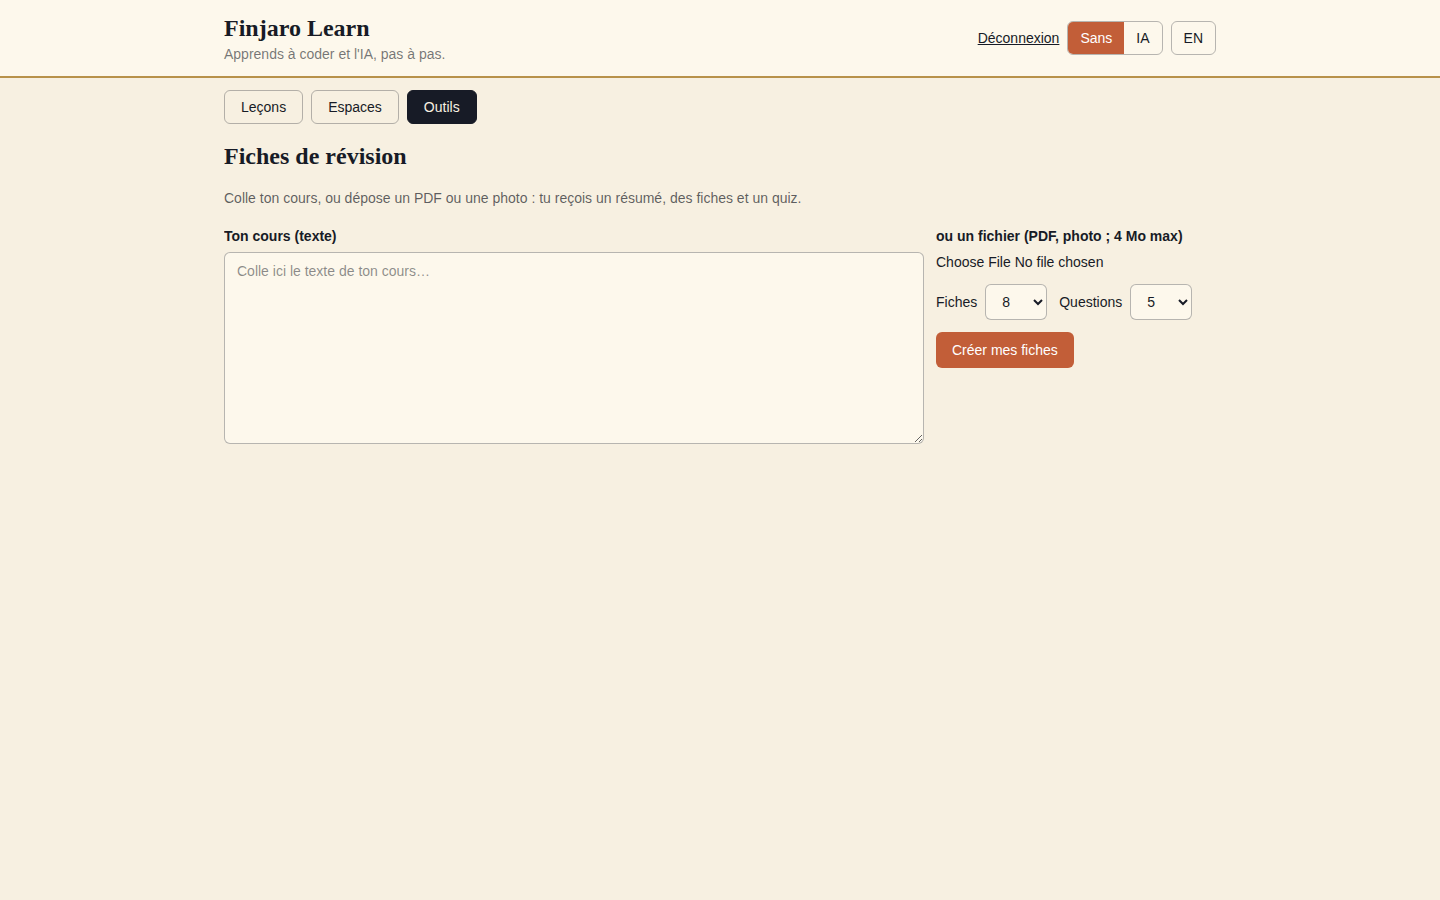
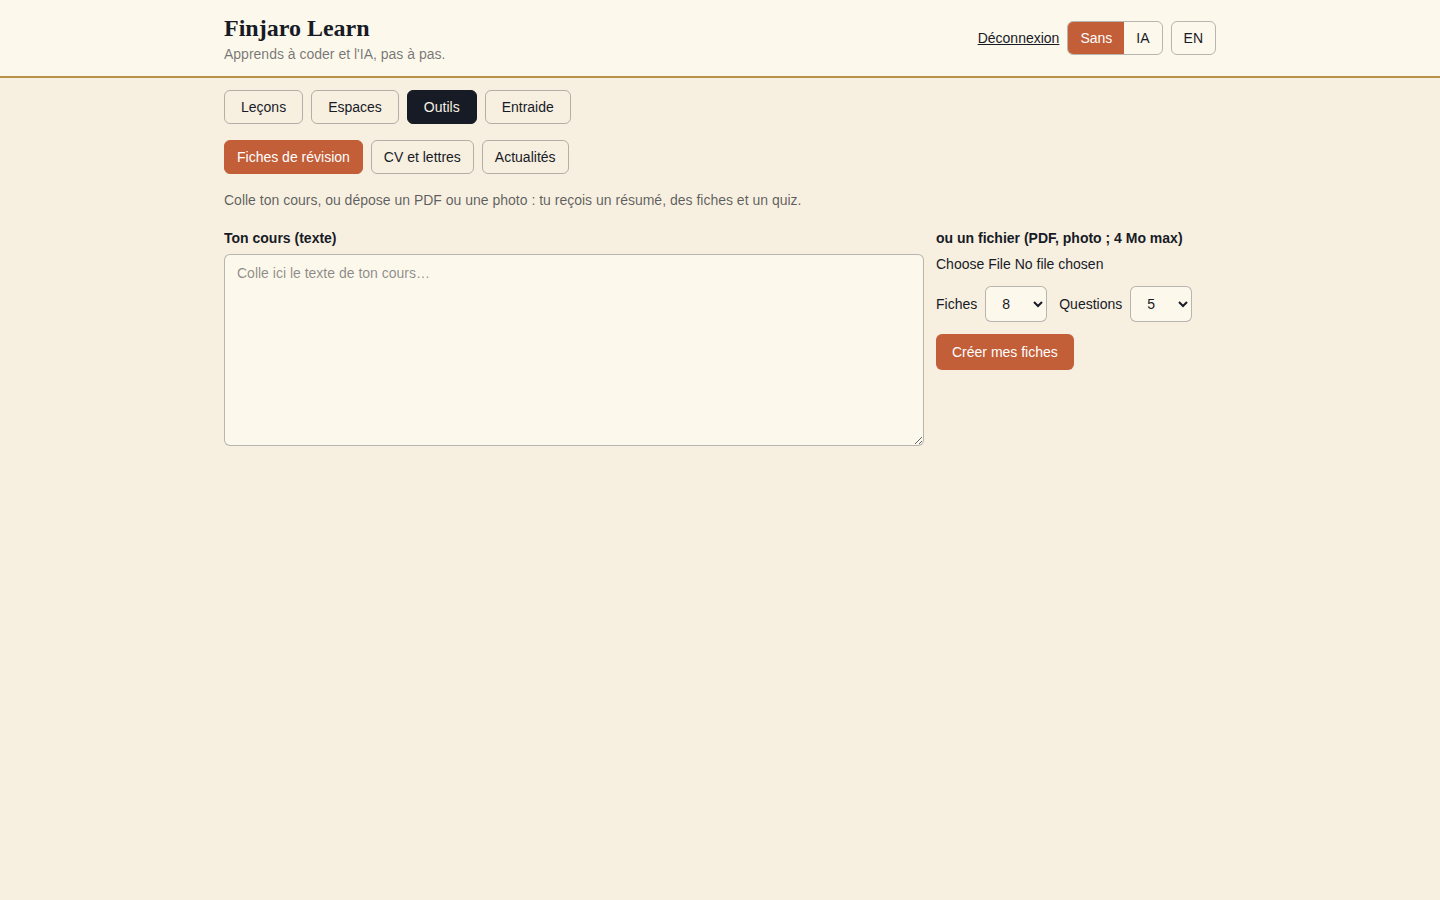
Outils : mode Réviser carte par carte (idée de la maquette Léo Academy)
Claude-Session: https://claude.ai/code/session_01EtZX8AJpSpG93mLejowvLW

Changed region(s): [[0.1562, 0.1556, 0.5625, 0.3111], [0.625, 0.2489, 0.8438, 0.4044], [0.3438, 0.0933, 0.4062, 0.1244]]

diff --git a/src/outils/Fiches.tsx b/src/outils/Fiches.tsx
@@ -37,6 +37,20 @@ export default function Fiches({ lang }: { lang: Lang }) {
   const [open, setOpen] = useState<number[]>([])
   const [picked, setPicked] = useState<Record<number, number>>({})
   const [checked, setChecked] = useState(false)
+  const [study, setStudy] = useState(false)
+  const [deck, setDeck] = useState<number[]>([])
+  const [pos, setPos] = useState(0)
+  const [flipped, setFlipped] = useState(false)
+  const [known, setKnown] = useState<number[]>([])
+  const [again, setAgain] = useState<number[]>([])
+
+  const startRound = (ids: number[]) => { setDeck(ids); setPos(0); setFlipped(false); setKnown([]); setAgain([]) }
+  const mark = (good: boolean) => {
+    const id = deck[pos]
+    if (good) setKnown([...known, id]); else setAgain([...again, id])
+    setFlipped(false)
+    setPos(pos + 1)
+  }
 
   const pick = (f: File | null) => {
     setErr('')
@@ -59,6 +73,8 @@ export default function Fiches({ lang }: { lang: Lang }) {
       }
       setRes(data)
       setOpen([])
+      setStudy(false)
+      startRound(data.cards.map((_, i) => i))
       setPicked({})
       setChecked(false)
     } finally {
@@ -106,21 +122,63 @@ export default function Fiches({ lang }: { lang: Lang }) {
           </div>
           {res.cards.length > 0 && (
             <div>
-              <h3 className="text-xs uppercase tracking-wide text-ink/60 mb-1">{t.cards}</h3>
-              <ul className="grid gap-2 md:grid-cols-2">
-                {res.cards.map((c, i) => {
-                  const shown = open.includes(i)
-                  return (
-                    <li key={i} className="bg-paper border border-brass/50 rounded-lg p-3 text-sm">
-                      <p className="font-semibold">{c.q}</p>
-                      {shown && <p className="mt-1 border-t border-brass/40 pt-1">{c.a}</p>}
-                      <button className="mt-2 text-xs text-terracotta-dark underline print:hidden" onClick={() => setOpen(shown ? open.filter((x) => x !== i) : [...open, i])}>
-                        {shown ? t.hide : t.show}
+              <div className="flex items-center justify-between mb-1 print:hidden">
+                <h3 className="text-xs uppercase tracking-wide text-ink/60">{t.cards}</h3>
+                <div role="group" className="flex rounded-md border border-ink/30 overflow-hidden text-sm">
+                  {[false, true].map((v) => (
+                    <button key={String(v)} aria-pressed={study === v} onClick={() => setStudy(v)}
+                      className={`px-3 py-1 ${study === v ? 'bg-ink text-cream' : ''}`}>{v ? t.study : t.list}</button>
+                  ))}
+                </div>
+              </div>
+              {study ? (
+                <div className="print:hidden max-w-xl">
+                  {pos < deck.length ? (
+                    <>
+                      <p className="text-xs text-ink/60 mb-1">{t.cardOf} {pos + 1} {t.of} {deck.length} · {known.length} {t.masteredN} · {again.length} {t.reviewN}</p>
+                      <div className="h-1.5 rounded bg-ink/10 mb-2"><div className="h-1.5 rounded bg-brass" style={{ width: `${(pos / deck.length) * 100}%` }} /></div>
+                      <button onClick={() => setFlipped(!flipped)} aria-label={t.flip}
+                        className="w-full min-h-48 text-left bg-paper border-2 border-brass/60 rounded-xl p-5 flex flex-col justify-center gap-2">
+                        <span className="font-semibold text-lg">{res.cards[deck[pos]].q}</span>
+                        {flipped
+                          ? <span className="border-t border-brass/40 pt-2">{res.cards[deck[pos]].a}</span>
+                          : <span className="text-xs text-ink/50">{t.think}</span>}
                       </button>
-                    </li>
-                  )
-                })}
-              </ul>
+                      <div className="mt-3 flex gap-2">
+                        {!flipped
+                          ? <button className={btn} onClick={() => setFlipped(true)}>{t.flip}</button>
+                          : <>
+                              <button className="rounded-md px-4 py-2 text-sm border border-terracotta text-terracotta-dark" onClick={() => mark(false)}>{t.toReview}</button>
+                              <button className={btn} onClick={() => mark(true)}>{t.mastered}</button>
+                            </>}
+                      </div>
+                    </>
+                  ) : (
+                    <div className="bg-paper border border-brass/50 rounded-xl p-5 space-y-3">
+                      <p className="font-semibold">{t.done} : {known.length} {t.masteredN}, {again.length} {t.reviewN}</p>
+                      <div className="flex flex-wrap gap-2">
+                        {again.length > 0 && <button className={btn} onClick={() => startRound(again)}>{t.onlyReview}</button>}
+                        <button className="rounded-md px-4 py-2 text-sm border border-ink/30" onClick={() => startRound(res.cards.map((_, i) => i))}>{t.restart}</button>
+                      </div>
+                    </div>
+                  )}
+                </div>
+              ) : (
+                <ul className="grid gap-2 md:grid-cols-2">
+                  {res.cards.map((c, i) => {
+                    const shown = open.includes(i)
+                    return (
+                      <li key={i} className="bg-paper border border-brass/50 rounded-lg p-3 text-sm">
+                        <p className="font-semibold">{c.q}</p>
+                        {shown && <p className="mt-1 border-t border-brass/40 pt-1">{c.a}</p>}
+                        <button className="mt-2 text-xs text-terracotta-dark underline print:hidden" onClick={() => setOpen(shown ? open.filter((x) => x !== i) : [...open, i])}>
+                          {shown ? t.hide : t.show}
+                        </button>
+                      </li>
+                    )
+                  })}
+                </ul>
+              )}
             </div>
           )}
           {res.quiz.length > 0 && (

diff --git a/src/outils/i18n.ts b/src/outils/i18n.ts
@@ -29,6 +29,7 @@ export const o = {
     errTimeout: 'Trop long. Essaie avec un cours plus court.',
     errAuth: 'Session expirée : reconnecte-toi.',
     print: 'Imprimer / PDF',
+    list: 'Liste', study: 'Réviser', flip: 'Retourner la carte', mastered: 'Maîtrisée', toReview: 'À revoir', cardOf: 'Carte', of: 'sur', done: 'Tour terminé', restart: 'Refaire un tour', onlyReview: 'Refaire les cartes à revoir', masteredN: 'maîtrisées', reviewN: 'à revoir', think: 'Cherche la réponse dans ta tête avant de retourner la carte.',
     sourceNote: 'Généré par IA à partir de ton cours uniquement. Relis avant de réviser.',
   },
   en: {
@@ -59,6 +60,7 @@ export const o = {
     errTimeout: 'Too long. Try a shorter course.',
     errAuth: 'Session expired: sign in again.',
     print: 'Print / PDF',
+    list: 'List', study: 'Study', flip: 'Flip the card', mastered: 'Got it', toReview: 'Review again', cardOf: 'Card', of: 'of', done: 'Round complete', restart: 'Start a new round', onlyReview: 'Redo cards to review', masteredN: 'mastered', reviewN: 'to review', think: 'Try to answer in your head before flipping the card.',
     sourceNote: 'AI-generated from your course only. Proofread before revising.',
   },
 } satisfies Record<Lang, Record<string, string>>

diff --git a/docs/COORDINATION.md b/docs/COORDINATION.md
@@ -23,3 +23,4 @@ messages directs (create_trigger vers la session concernée).
 | 01/10 | Outils → Alpha | Newsletter prête : `supabase/functions/learn-news/` (Gemini + outil google_search ; on ne garde que les lignes rattachées par Gemini à une source https, sinon écartées ; erreur `no_sources` si rien). Nouveautés Finjaro : fichier `src/outils/finjaroNews.ts`, 2 entrées datées, sans chiffre. Pas de nouveau SQL (`learn_outils_consume('news')`, 10/jour). NON testé avec la vraie API (pas de clé ici) : à essayer après déploiement. Pas de cache (possible plus tard avec une table learn_outils_news_cache). La capture news-* contient un élément simulé (example.com), marqué test. |
 | 01/10 | Learn → Alpha | Écrans Entraide (src/entraide/) : pseudo, questions, réponses, meilleure réponse, signalement, agent (mode entraide), profil à compteurs réels. Vu seulement déconnecté (390/1440). |
 | 01/10 | Beau → Alpha → Learn | « Oui fais l'écran de modération » : fait (src/entraide/Moderation.tsx), testé avec réseau simulé à 390/1440. |
+| 01/10 | Outils → Alpha | Maquette Léo Academy lue. Repris : mode « Réviser » des fiches (une carte à la fois, retourner, maîtrisée / à revoir, progression, refaire les cartes à revoir). Aucune donnée d'exemple reprise. Non repris : inscription e-mail à la newsletter (demanderait un envoi d'e-mails = service/dépense, à décider par Beau). Captures fiches-reviser-390/1440. |
